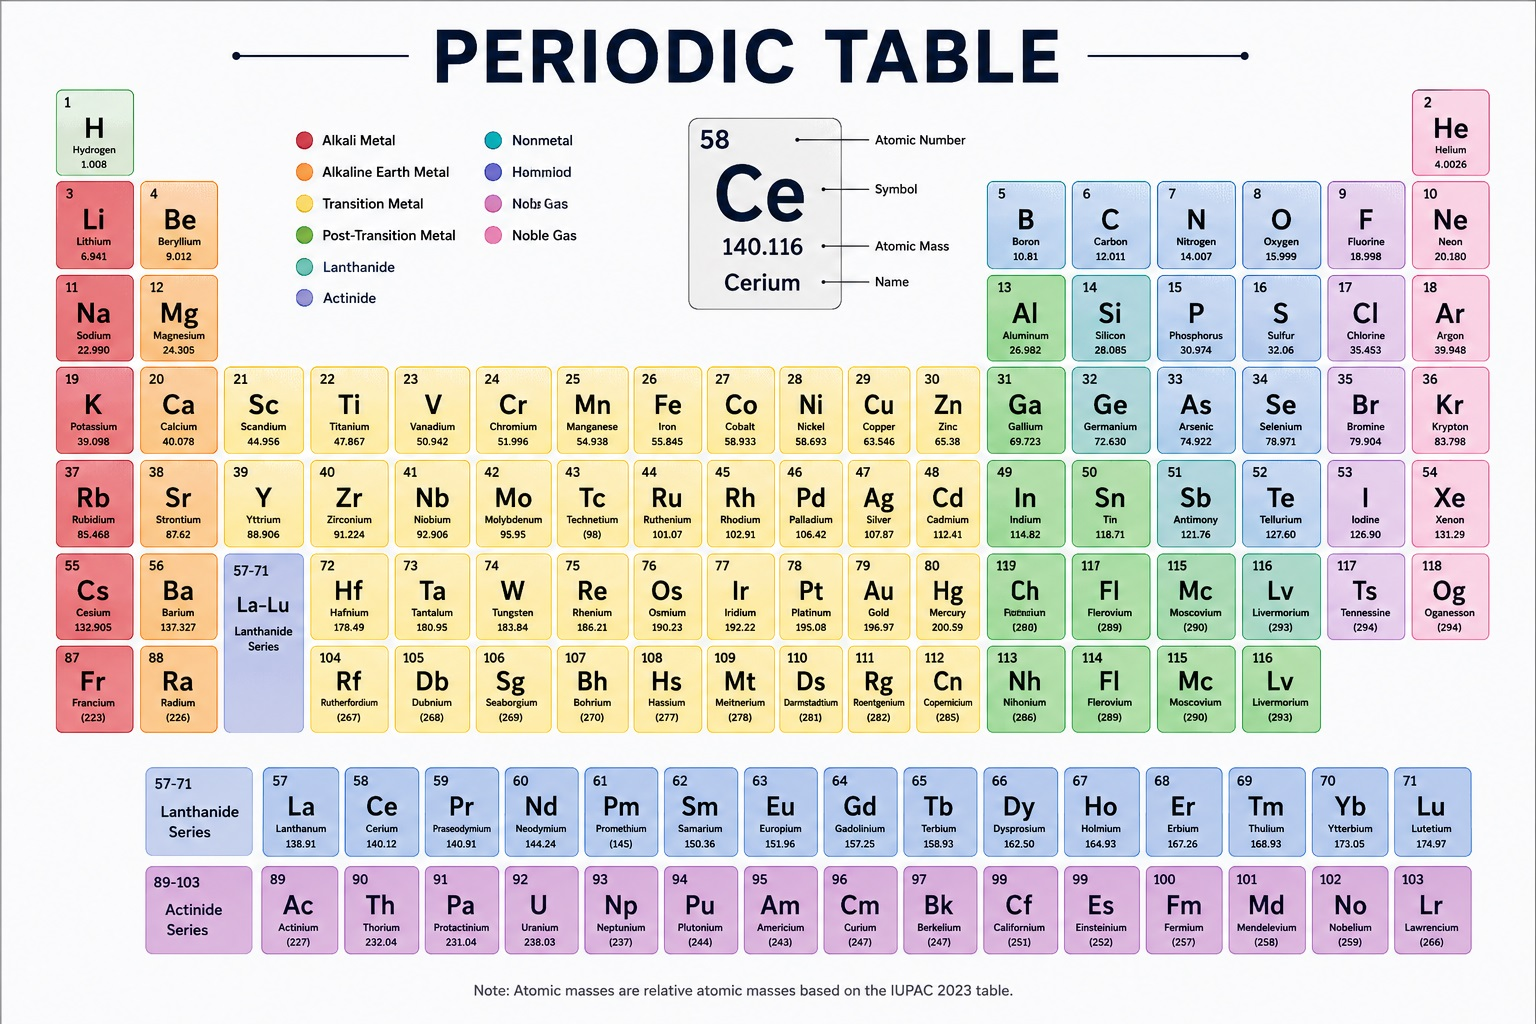
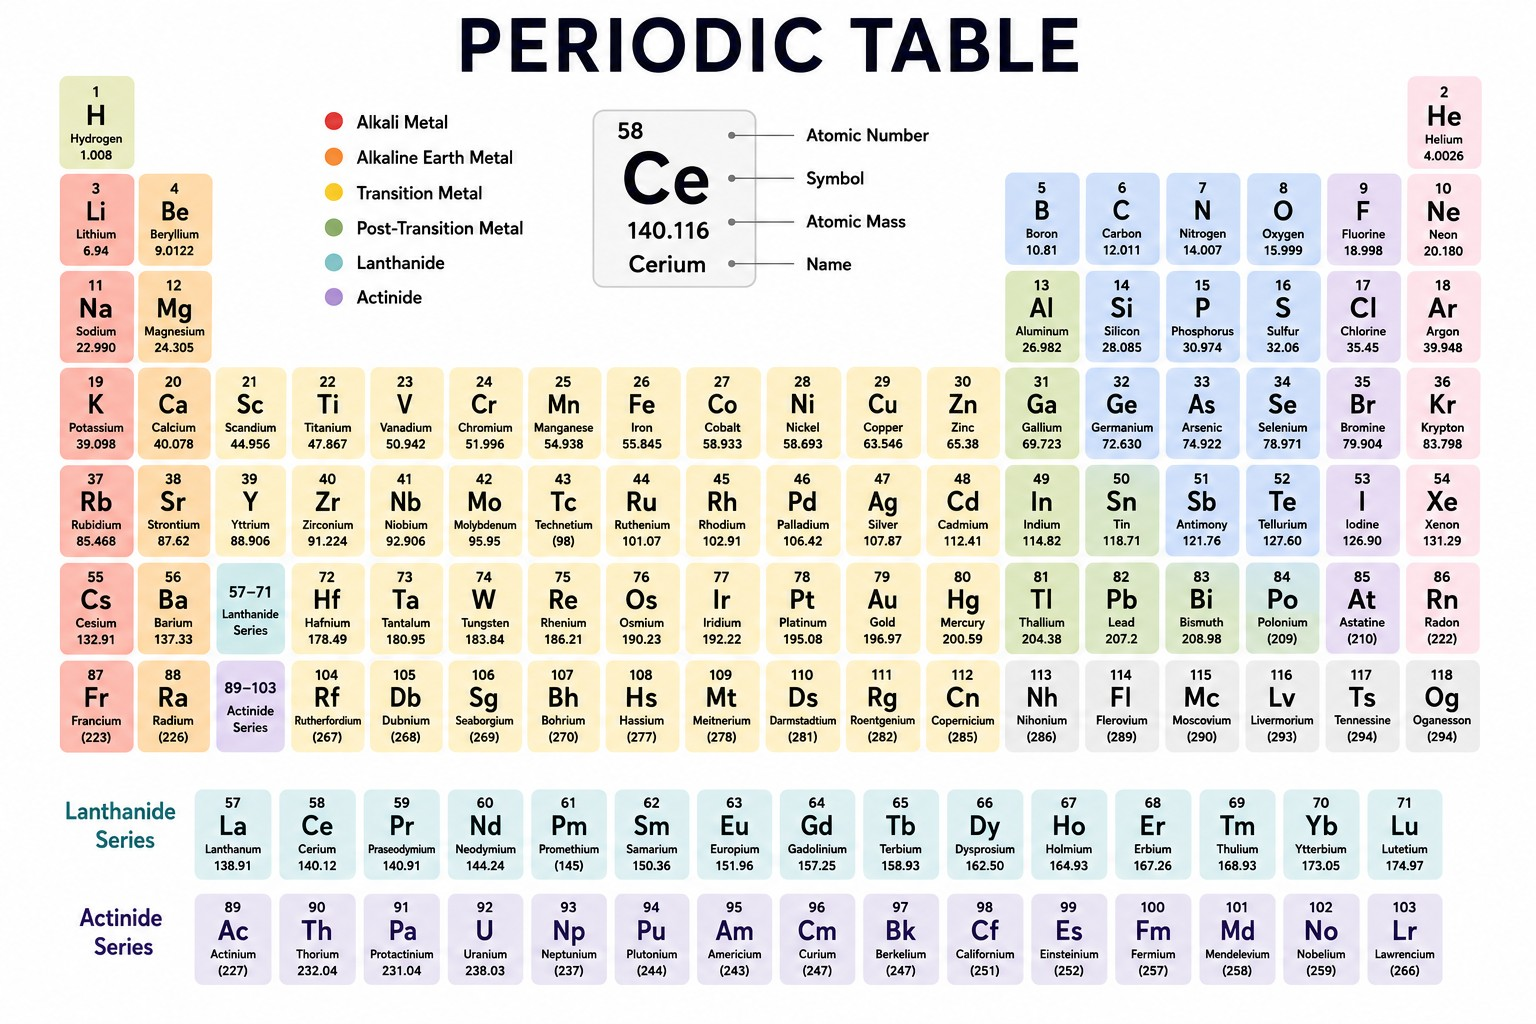
Replace periodic-table.jpg with an accurate, correctly-colored version
The old image had errors (mismatched legend colors, garbled element
labels like 'Hommiod', 'Nobs Gas', duplicate atomic numbers 113-116
appearing twice). Swapped in a clean, accurate reference image.

Bump to v142.

diff --git a/index.html b/index.html
@@ -13,7 +13,7 @@
 <link href="https://fonts.googleapis.com" rel="preconnect"/>
 <link crossorigin="" href="https://fonts.gstatic.com" rel="preconnect"/>
 <link href="https://fonts.googleapis.com/css2?family=Inter:wght@400;500;600;700;800&amp;family=Pacifico&amp;display=optional" rel="stylesheet"/>
-<link href="styles.css?v=family-memories-v141" rel="stylesheet"/>
+<link href="styles.css?v=family-memories-v142" rel="stylesheet"/>
 <!-- PWA -->
 <link href="manifest.json" rel="manifest"/>
 <meta content="#1670f8" name="theme-color"/>
@@ -265,7 +265,7 @@
 <dialog id="folderOptionsDialog"><div class="dialog-card"><div class="dialog-head"><h2 id="folderOptionsTitle">Folder</h2><button class="icon-btn" id="closeFolderOptions" type="button">×</button></div><div class="folder-options-list"><button class="secondary folder-option-btn" id="folderOptionsRename" type="button">✏ Rename folder</button><button class="secondary folder-option-btn danger" id="folderOptionsDelete" type="button">🗑 Delete folder</button></div></div></dialog>
 <dialog id="settingsDialog"><form class="dialog-card" id="settingsForm" novalidate=""><div class="dialog-head"><h2>Settings</h2><button class="icon-btn" id="closeSettingsDialog" type="button">×</button></div><label class="small muted" for="settingsDisplayName">Display name</label><input id="settingsDisplayName" maxlength="80" placeholder="Your name" required=""/><div class="dialog-actions"><button class="secondary" id="cancelSettingsDialog" type="button">Cancel</button><button class="primary" id="settingsSaveBtn">Save</button></div></form></dialog>
 <dialog id="addDialog"><form class="dialog-card" id="addForm" novalidate=""><div class="dialog-head"><h2 id="dialogTitle">Add item</h2><button class="icon-btn" id="closeDialog" type="button">×</button></div><input id="itemTitle" placeholder="Title (optional)"/><textarea id="itemDescription" placeholder="Description or notes (optional)"></textarea><input id="itemDate" type="date"/><label class="file-picker">📎 <span id="itemFileLabel">Choose photo or file</span><input hidden="" id="itemFile" type="file" multiple=""/></label><div class="dialog-actions"><button class="secondary" id="cancelDialog" type="button">Cancel</button><button class="primary">Save</button></div></form></dialog>
-<script src="https://cdn.jsdelivr.net/npm/@supabase/supabase-js@2"></script><script src="config.js?v=family-memories-v141"></script><script src="app.js?v=family-memories-v141"></script>
+<script src="https://cdn.jsdelivr.net/npm/@supabase/supabase-js@2"></script><script src="config.js?v=family-memories-v142"></script><script src="app.js?v=family-memories-v142"></script>
 <script>
 (function(){
   function resetScroll(){ window.scrollTo(0,window.scrollY); document.documentElement.scrollLeft=0; document.body.scrollLeft=0; }
@@ -288,7 +288,7 @@ if ('serviceWorker' in navigator) {
 // server "what version are you actually running?" and compare it to the
 // version this page was loaded with. Simple, deterministic, no guessing.
 (function(){
-  var CURRENT_APP_VERSION = 'family-memories-v141';
+  var CURRENT_APP_VERSION = 'family-memories-v142';
   var reloadingForUpdate = false;
   var shown = false;
   function checkForUpdate(){

diff --git a/app.js b/app.js
@@ -1,4 +1,4 @@
-console.log("APP.JS family-memories-v141 loaded");
+console.log("APP.JS family-memories-v142 loaded");
 const cfg = window.APP_CONFIG;
 
 // Keep the Supabase session signed in across app restarts, until the user

diff --git a/sw.js b/sw.js
@@ -1,4 +1,4 @@
-const CACHE_NAME = "family-memories-v141";
+const CACHE_NAME = "family-memories-v142";
 const APP_SHELL = [
   "./",
   "./index.html",
